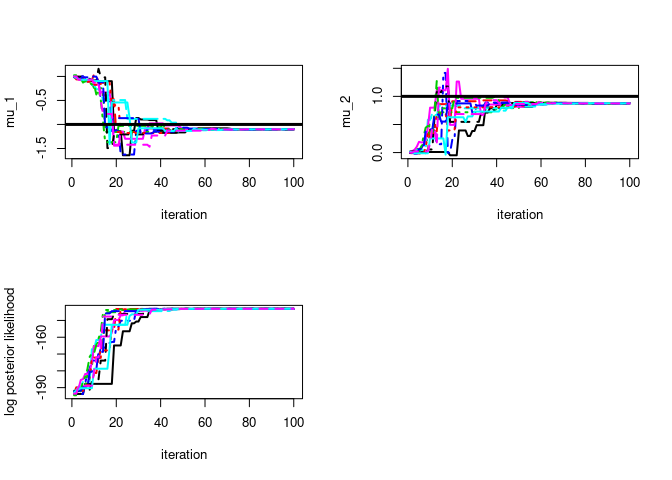
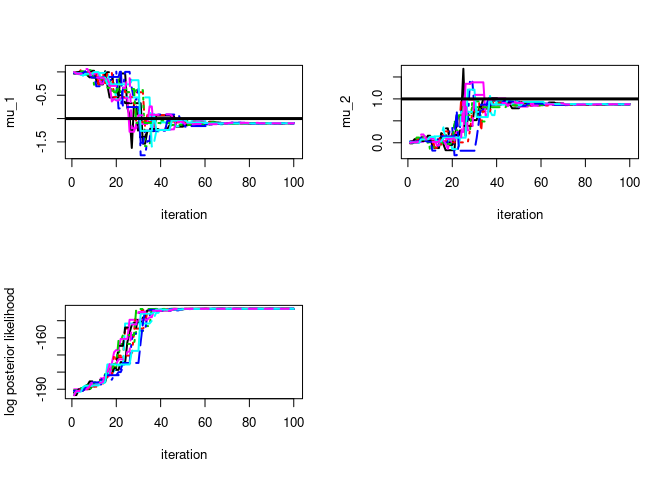
added VB example to read me

diff --git a/README.md b/README.md
@@ -163,31 +163,66 @@ par(mfrow=c(2,2))
 
 <img src="man/figures/README-DEMAP example-1.png" width="100%" />
 
+## DEVI Example
+
+Optimize parameters lambda of Q(theta\|lambda) to minimize the KL
+Divergence (maximize the ELBO) between Q and the likelihood\*prior
+
 ``` r
-# # optimize KL between approximating distribution Q (mean-field approximation) and posterior
-# vb <- DEVI(LogPostLike=LogPostLikeExample,
-#                   control_pars=AlgoParsDEMAP(n_pars=length(par_names_example),
-#                                      n_iter=100, 
-#                                      n_chains=12, return_trace = T),
-#                   data=dataExample,
-#                   par_names = par_names_example)
-# 
-# 
-#   print(paste0('posterior means:',round(vb$means,2)))
-#   print(paste0('posterior covariances:',round(vb$covariances,2)))
-#   
-# par(mfrow=c(2,2))
-#   
-#   # plot particle trace plot for mu 1
-#   matplot(vb$lambda_trace[,,1],type='l',ylab=paste0(par_names_example[1],"mean"),xlab="iteration",lwd=2)
-#   matplot(vb$lambda_trace[,,2],type='l',ylab=paste0(par_names_example[2],"mean"),xlab="iteration",lwd=2)
-#   
-#   matplot(vb$lambda_trace[,,3],type='l',ylab=paste0(par_names_example[1],"log sd"),xlab="iteration",lwd=2)
-#   matplot(vb$lambda_trace[,,4],type='l',ylab=paste0(par_names_example[2],"log sd"),xlab="iteration",lwd=2)
-# 
-# par(mfrow=c(1,2))
-#   matplot(vb$ELBO_trace,type='l',ylab='ELBO',xlab="iteration",lwd=2)
-#   
+# optimize KL between approximating distribution Q (mean-field approximation) and posterior
+vb <- DEVI(LogPostLike=LogPostLikeExample,
+                  control_pars=AlgoParsDEVI(n_pars=length(par_names_example),
+                                     n_iter=200,
+                                     n_chains=12, return_trace = T),
+                  data=dataExample,
+                  par_names = par_names_example)
+#> [1] "initalizing chains..."
+#> [1] "1 / 12"
+#> [1] "2 / 12"
+#> [1] "3 / 12"
+#> [1] "4 / 12"
+#> [1] "5 / 12"
+#> [1] "6 / 12"
+#> [1] "7 / 12"
+#> [1] "8 / 12"
+#> [1] "9 / 12"
+#> [1] "10 / 12"
+#> [1] "11 / 12"
+#> [1] "12 / 12"
+#> [1] "chain initialization complete  :)"
+#> [1] "running DE to find best variational approximation"
+#> [1] "iter 100/200"
+#> [1] "iter 200/200"
+
+
+  # posterior means
+  print((round(vb$means,2)))
+#> par1_mean par2_mean 
+#>     -1.06      0.90
+
+  # posterior covariance
+  print(round(vb$covariance,3))
+#>       [,1]  [,2]
+#> [1,] 0.035 0.000
+#> [2,] 0.000 0.026
+        
+par(mfrow=c(2,2))
+
+  # plot particle trace plot for mu 1
+  matplot(vb$lambda_trace[,,1],type='l',ylab=paste0(par_names_example[1]," mean"),xlab="iteration",lwd=2)
+  matplot(vb$lambda_trace[,,2],type='l',ylab=paste0(par_names_example[2]," mean"),xlab="iteration",lwd=2)
+
+  matplot(vb$lambda_trace[,,3],type='l',ylab=paste0(par_names_example[1]," log sd"),xlab="iteration",lwd=2)
+  matplot(vb$lambda_trace[,,4],type='l',ylab=paste0(par_names_example[2]," log sd"),xlab="iteration",lwd=2)
 ```
+
+<img src="man/figures/README-DEVIexample-1.png" width="100%" />
+
+``` r
+par(mfrow=c(1,1))
+  matplot(vb$ELBO_trace,type='l',ylab='ELBO',xlab="iteration",lwd=2)
+```
+
+<img src="man/figures/README-DEVIexample-2.png" width="100%" />
 
 s
